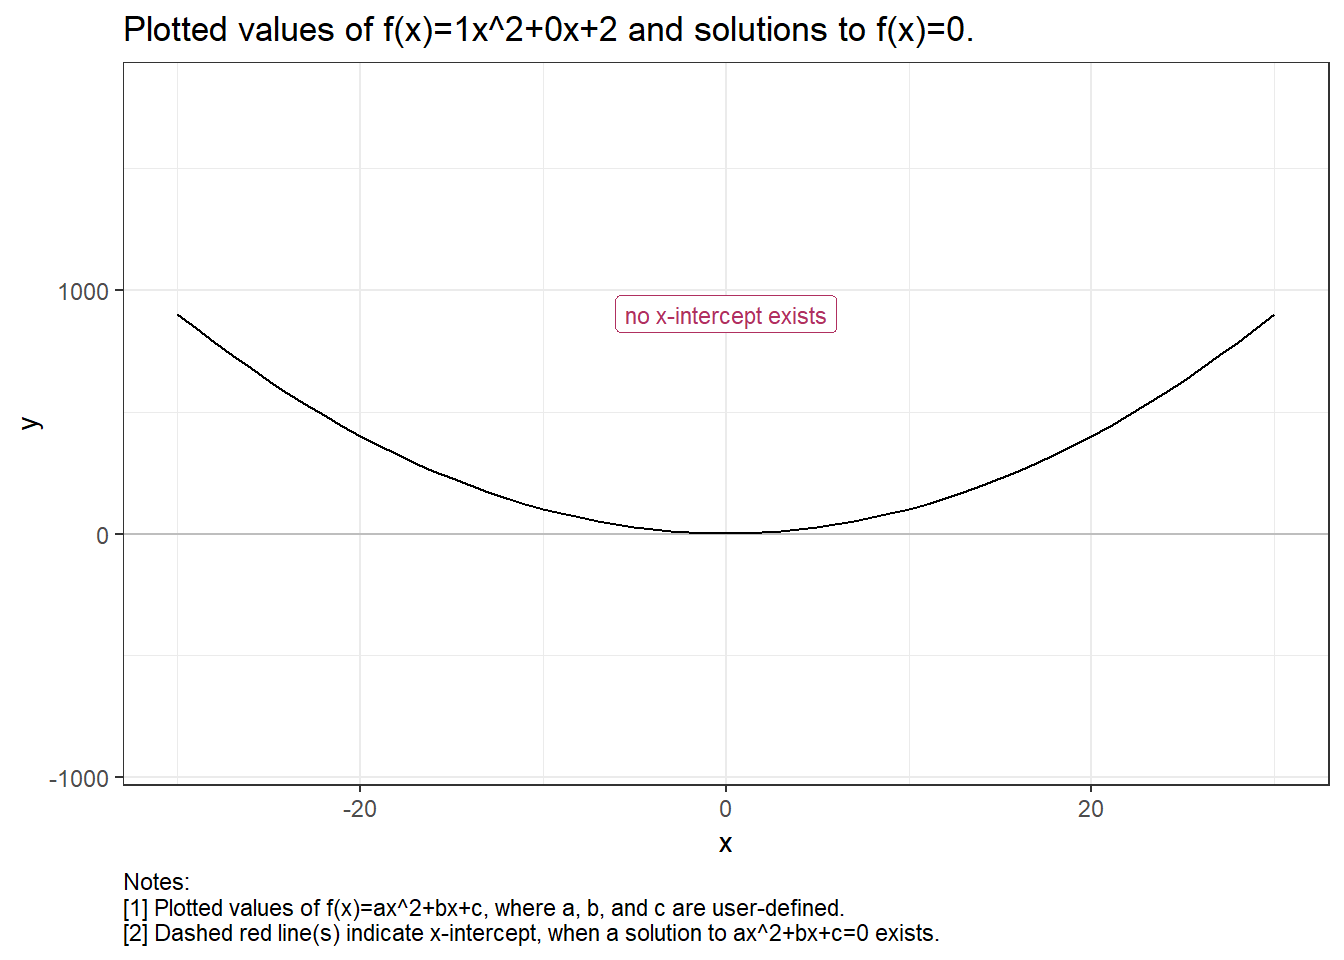
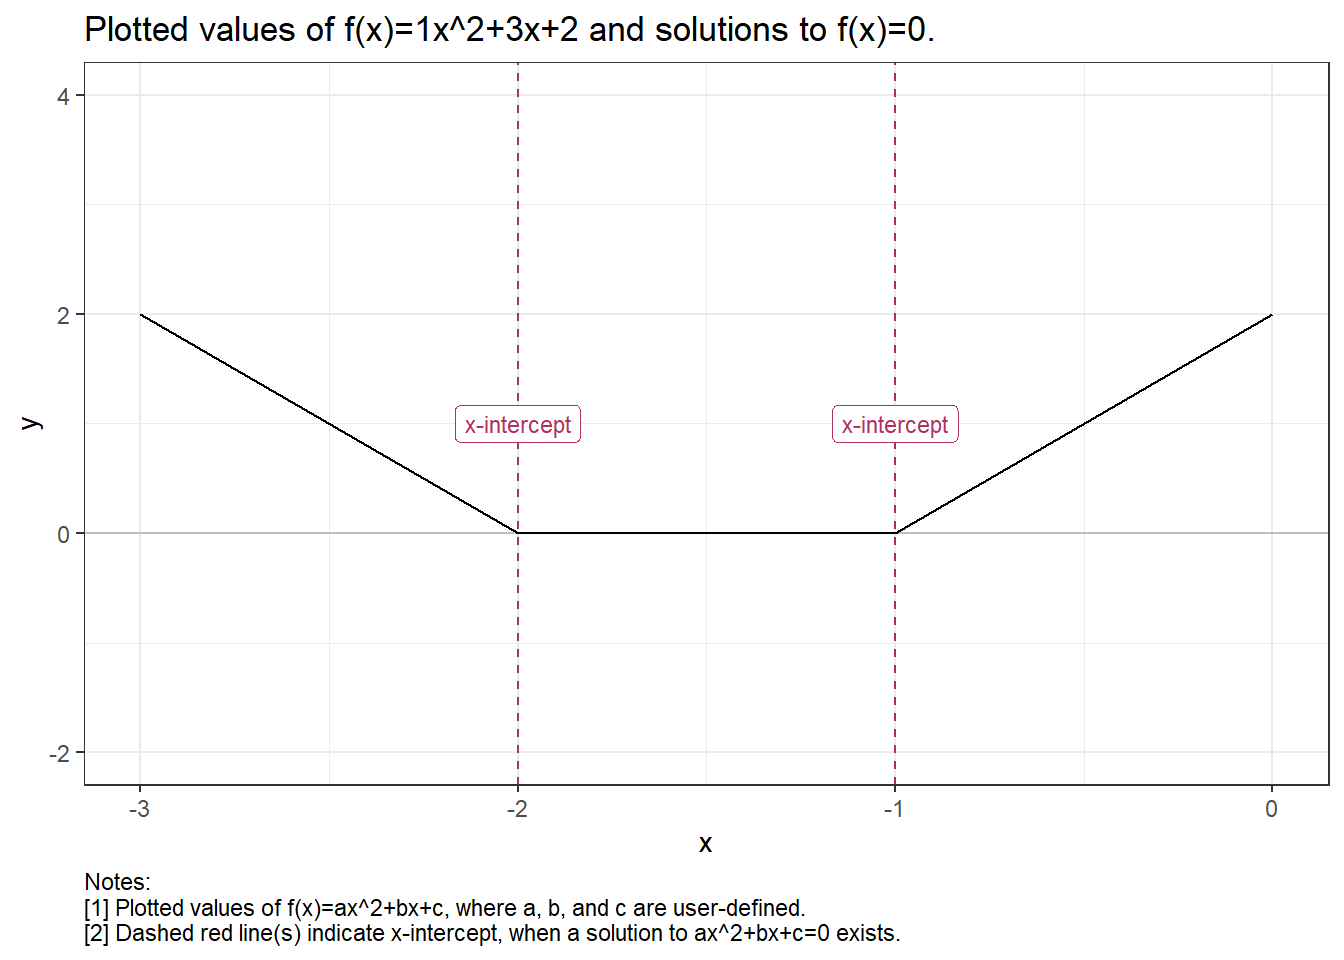
second commit

diff --git a/hw0.html b/hw0.html
@@ -71,11 +71,11 @@ ul.task-list li input[type="checkbox"] {
 
 <section id="part-0-description-of-quarto-document" class="level2">
 <h2 class="anchored" data-anchor-id="part-0-description-of-quarto-document">Part 0: Description of Quarto document</h2>
-<p>Part I computes solutions to the equation f(x)=ax^2+bx+c=0, where arguments a, b, and c are user-defined, hard-coded values, while Part II displays the function and its solutions graphically.</p>
+<p>Part I computes solutions to the equation f(x)=ax^2+bx+c=0, where arguments a, b, and c are user-defined, hard-coded values, while Part II displays the function and its solutions graphically. Function arguments a, b, and c are initialized at 1, 3, and 2, respectively.</p>
 </section>
 <section id="part-i-solutions-to-the-quadratic-equation" class="level2">
 <h2 class="anchored" data-anchor-id="part-i-solutions-to-the-quadratic-equation">Part I: Solutions to the quadratic equation</h2>
-<p>No solutions.</p>
+<p>Two (2) distinct solutions: -1, -2</p>
 </section>
 <section id="part-ii-visualization-of-solutions" class="level2">
 <h2 class="anchored" data-anchor-id="part-ii-visualization-of-solutions">Part II: Visualization of solutions</h2>
